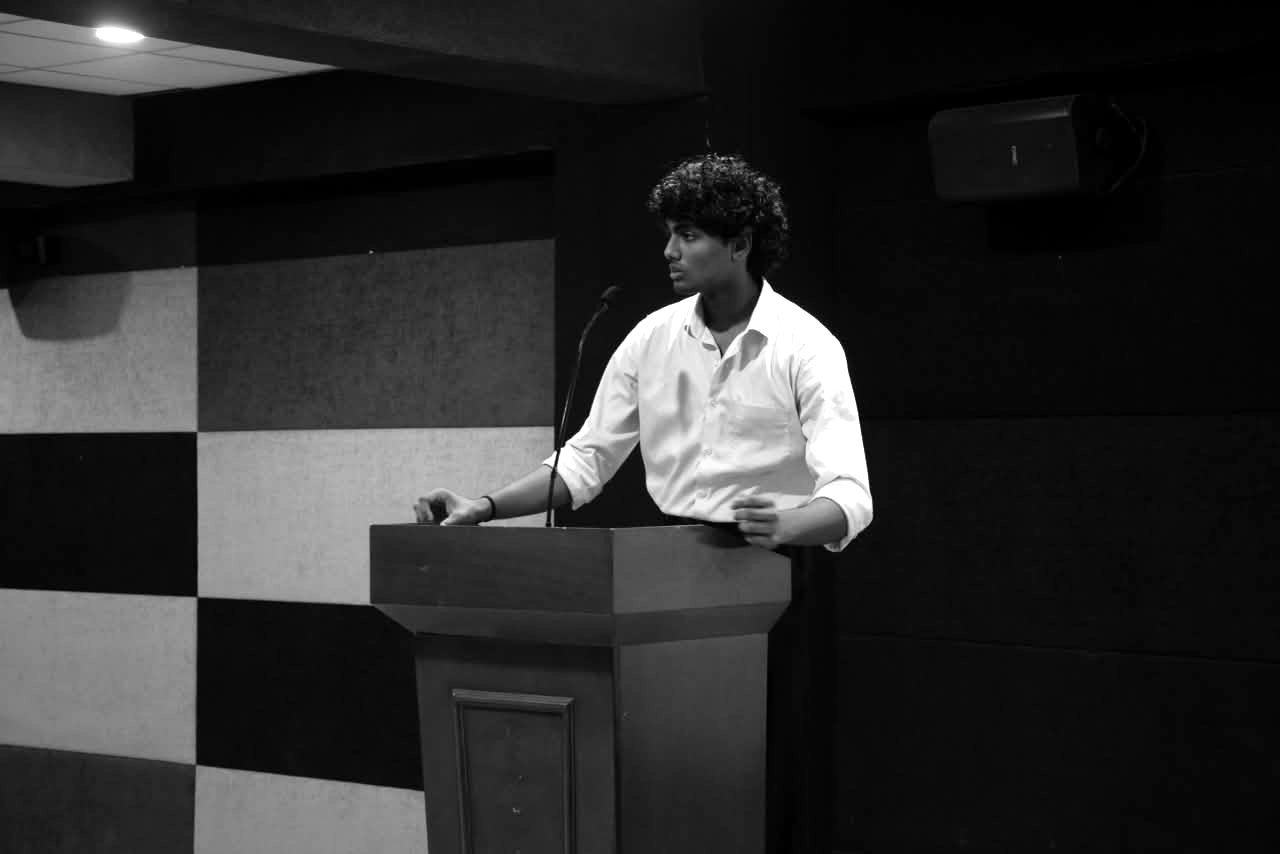
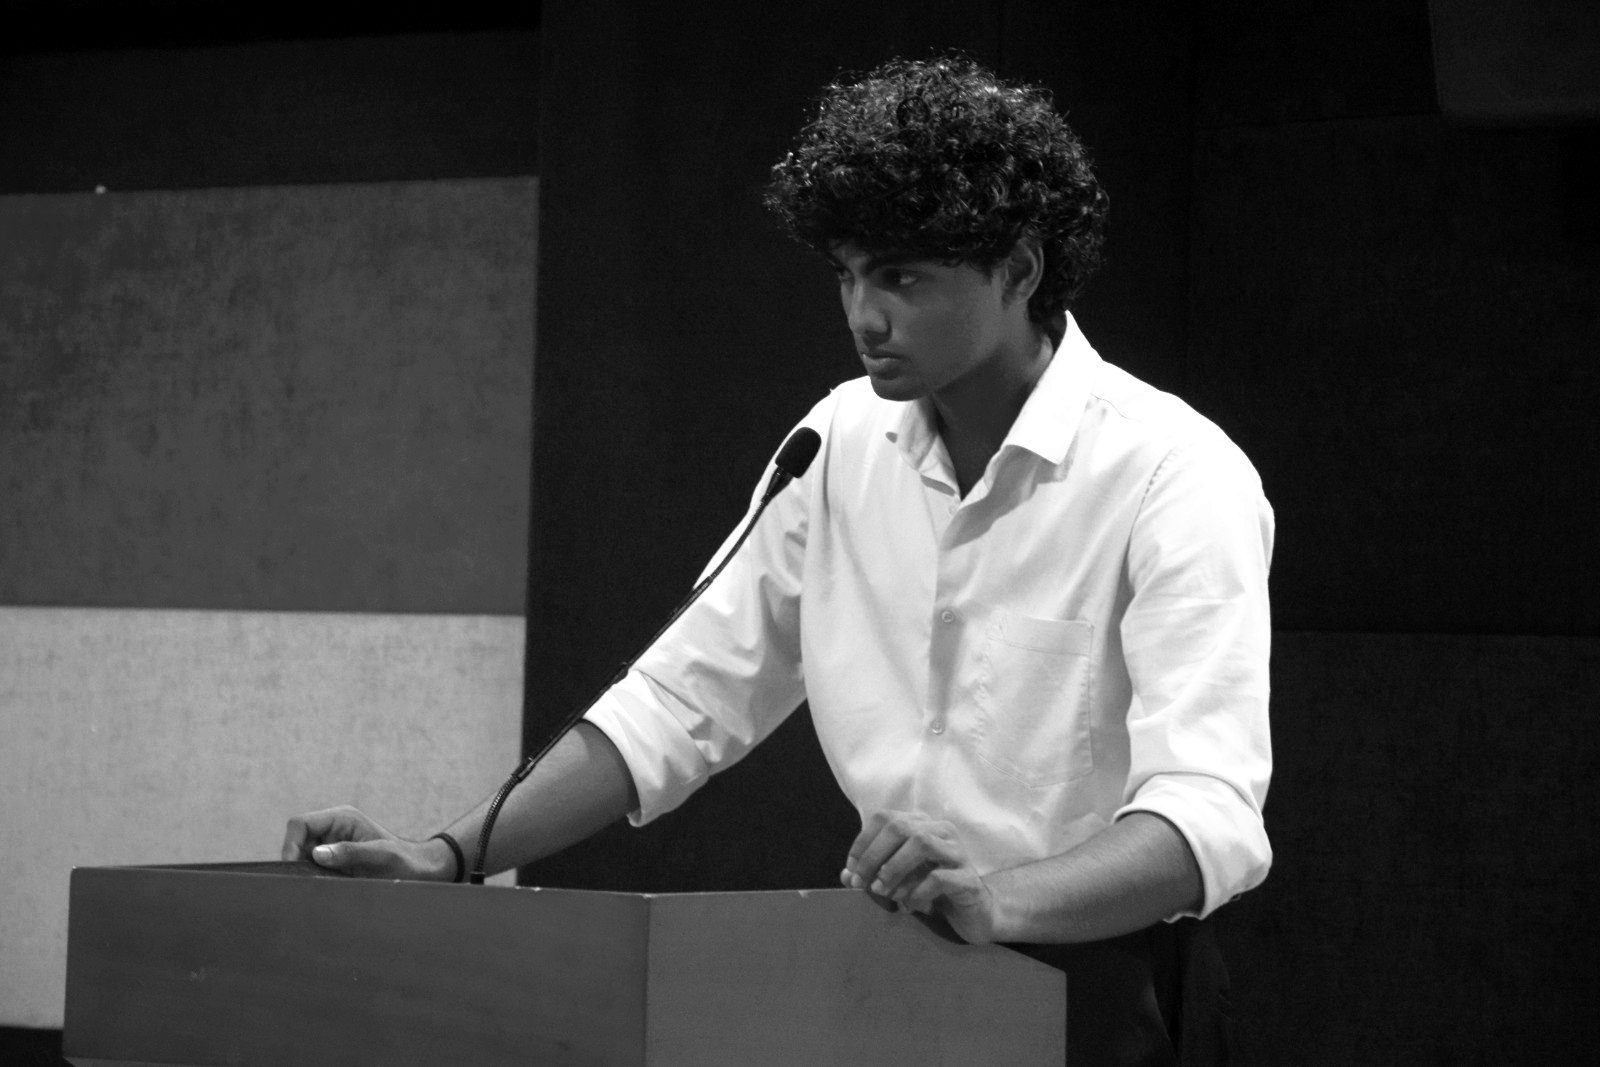
Add interactive shell, cinematic band, new photos
- Interactive terminal ("shell") visitors can type into: help,
  whoami, ls, open <project>, skills, contact, neofetch, clear —
  with command history (up/down) and tab-completion. Works with
  or without GSAP/reduced-motion.
- New photos: hero + loader from photo one, a full-bleed cinematic
  stage band (parallax) from photo two — less repetition.
- Terminal + typewriter now run on every code path.

diff --git a/js/main.js b/js/main.js
@@ -25,10 +25,13 @@
     if (loader) loader.parentNode.removeChild(loader);
     initLenis(); // harmless if it bails
     initCursor();
+    initShell();
+    initTerminalType();
     return;
   }
 
   G.registerPlugin(ST);
+  initShell();
 
   /* ================= LENIS smooth scroll ================= */
   var lenis = null;
@@ -127,7 +130,8 @@
   initCursor();
 
   /* ================= code terminal typewriter ================= */
-  (function typeTerminal() {
+  initTerminalType();
+  function initTerminalType() {
     var code = document.getElementById("termCode");
     if (!code) return;
     // tokens: [text, class] — class c=comment, k=keyword, s=string, ""=plain
@@ -164,7 +168,111 @@
       ST.create({ trigger: ".term", start: "top 80%", once: true,
         onEnter: function () { if (!run.started) { run.started = true; step(); } } });
     } else { step(); }
-  })();
+  }
+
+  /* band parallax */
+  G.to(".band__fig img", { yPercent: -12, ease: "none",
+    scrollTrigger: { trigger: ".band", start: "top bottom", end: "bottom top", scrub: true } });
 
   addEventListener("load", function () { if (ST) ST.refresh(); });
+
+  /* ================= interactive shell ================= */
+  function initShell() {
+    var screen = document.getElementById("cliScreen");
+    var form = document.getElementById("cliForm");
+    var input = document.getElementById("cliInput");
+    var cli = document.getElementById("cli");
+    if (!screen || !form || !input) return;
+    var hist = [], hi = -1;
+
+    function esc(s) { return String(s).replace(/[&<>]/g, function (c) { return { "&": "&amp;", "<": "&lt;", ">": "&gt;" }[c]; }); }
+    function pad(s, n) { s = String(s); return s.length >= n ? s : s + new Array(n - s.length + 1).join(" "); }
+    function out(html, cls) { var d = document.createElement("pre"); d.className = "row" + (cls ? " " + cls : ""); d.innerHTML = html; screen.appendChild(d); screen.scrollTop = screen.scrollHeight; }
+    function prompt(cmd) { out('<span class="mut">visitor@srd:~$</span> <span class="cmd">' + esc(cmd) + "</span>"); }
+
+    var projects = {
+      rawrs: ["RAWRS", "vision-language document accessibility · daily at WinVinaya", "https://github.com/winvinayainfosystemsindia/RAWRS---V1"],
+      thadam: ["Thadam", "audit intelligence over 476,781 lifecycle events", "https://github.com/SomeNobody21112/Thadam"],
+      ichnova: ["ICHNOVA", "blind radio-signal decoder, 30/30 held-out", "https://github.com/SomeNobody21112/ICHNOVA"],
+      llama: ["llama.cpp #30630", "merged NumPy Q1_0/Q2_0 GGUF quantization", "https://github.com/ggml-org/llama.cpp/pull/30630"]
+    };
+    function go(url) { try { window.open(url, "_blank", "noopener"); } catch (e) {} }
+
+    function neofetch() {
+      var art = ["   ____  ____  ____", "  / ___||  _ \\|  _ \\", "  \\___ \\| |_) | | | |", "   ___) |  _ <| |_| |", "  |____/|_| \\_\\____/"];
+      var info = ["visitor@srd", "-----------", "host: St. Joseph's Inst. of Tech", "role: AI / ML Engineer", "shell: zsh", "editor: VS Code · nvim", "stack: Python · TS · FastAPI · React", "merged: llama.cpp #30630", "uptime: 2nd year — shipping daily"];
+      var n = Math.max(art.length, info.length), rows = [];
+      for (var i = 0; i < n; i++) rows.push('<span class="asc">' + esc(pad(art[i] || "", 24)) + '</span><span class="mut">' + esc(info[i] || "") + "</span>");
+      return rows.join("\n");
+    }
+
+    var commands = {
+      help: function () {
+        return ['<span class="hd">commands</span>',
+          '  <span class="cmd">whoami</span>     who I am',
+          '  <span class="cmd">about</span>      the longer version',
+          '  <span class="cmd">ls</span>         list projects',
+          '  <span class="cmd">open</span> &lt;x&gt;   open one (rawrs · thadam · ichnova · llama)',
+          '  <span class="cmd">skills</span>     the toolkit',
+          '  <span class="cmd">contact</span>    where to find me',
+          '  <span class="cmd">neofetch</span>   system info',
+          '  <span class="cmd">clear</span>      clear the screen'].join("\n");
+      },
+      whoami: function () { return "sri ramaanuja dasan — 2nd-yr CSE, Chennai. builds &amp; ships AI end to end."; },
+      about: function () { return "I build AI that reaches real users — a tool used daily at WinVinaya, a hackathon-grade audit engine, a signal decoder from first principles. I measure against benchmarks and keep systems reviewable and reversible. Long game: found my own company."; },
+      ls: function () { return Object.keys(projects).map(function (k) { var p = projects[k]; return '<span class="cmd">' + pad(k, 10) + '</span><span class="mut">' + esc(p[1]) + "</span>"; }).join("\n"); },
+      open: function (a) {
+        if (!a) return "usage: open &lt;rawrs|thadam|ichnova|llama&gt;";
+        var p = projects[a.toLowerCase()];
+        if (!p) return "not found: " + esc(a) + " — try: " + Object.keys(projects).join(", ");
+        go(p[2]); return 'opening <a href="' + p[2] + '" target="_blank" rel="noopener">' + esc(p[0]) + "</a> …";
+      },
+      skills: function () {
+        return ['<span class="mut">ml   </span> Qwen2.5-VL · embeddings · anomaly/survival · GGUF quant',
+          '<span class="mut">lang </span> Python · TypeScript · React · FastAPI',
+          '<span class="mut">ops  </span> Docker · CI · pytest · git'].join("\n");
+      },
+      contact: function () {
+        return ['github   <a href="https://github.com/SomeNobody21112" target="_blank" rel="noopener">@SomeNobody21112</a>',
+          'linkedin <a href="https://linkedin.com/in/sri-ramaanuja-dasan" target="_blank" rel="noopener">in/sri-ramaanuja-dasan</a>',
+          'site     <a href="https://somenobody21112.github.io" target="_blank" rel="noopener">somenobody21112.github.io</a>'].join("\n");
+      },
+      github: function () { go("https://github.com/SomeNobody21112"); return "opening GitHub …"; },
+      linkedin: function () { go("https://linkedin.com/in/sri-ramaanuja-dasan"); return "opening LinkedIn …"; },
+      neofetch: function () { return neofetch(); },
+      echo: function (a) { return esc(a || ""); },
+      date: function () { return esc(new Date().toString()); },
+      sudo: function () { return "nice try. this incident will be reported. 🙂"; },
+      history: function () { return hist.length ? hist.map(function (h, i) { return "  " + (i + 1) + "  " + esc(h); }).join("\n") : "(empty)"; },
+      clear: function () { screen.innerHTML = ""; return null; }
+    };
+    commands.projects = commands.ls;
+    commands.man = commands.help;
+
+    function run(line) {
+      prompt(line);
+      var parts = line.trim().split(/\s+/);
+      var name = (parts.shift() || "").toLowerCase();
+      if (!name) return;
+      hist.push(line); hi = hist.length;
+      var fn = commands[name];
+      if (!fn) { out('command not found: ' + esc(name) + ' — type <span class="cmd">help</span>'); return; }
+      var r = fn(parts.join(" "));
+      if (r != null) out(r);
+    }
+
+    form.addEventListener("submit", function (e) { e.preventDefault(); var v = input.value; input.value = ""; run(v); });
+    input.addEventListener("keydown", function (e) {
+      if (e.key === "ArrowUp") { e.preventDefault(); if (hi > 0) { hi--; input.value = hist[hi] || ""; } }
+      else if (e.key === "ArrowDown") { e.preventDefault(); if (hi < hist.length - 1) { hi++; input.value = hist[hi] || ""; } else { hi = hist.length; input.value = ""; } }
+      else if (e.key === "Tab") {
+        e.preventDefault();
+        var pre = input.value.trim().toLowerCase();
+        if (pre) { var m = Object.keys(commands).filter(function (k) { return k.indexOf(pre) === 0; }); if (m.length === 1) input.value = m[0] + " "; }
+      }
+    });
+    if (cli) cli.addEventListener("click", function (e) { if (e.target.tagName !== "A") input.focus(); });
+
+    out('<span class="mut"># srd.sh — interactive shell. type </span><span class="cmd">help</span><span class="mut"> to begin.</span>');
+  }
 })();

diff --git a/css/styles.css b/css/styles.css
@@ -251,5 +251,32 @@ html.js .hero__fig img{ clip-path:inset(0 0 100% 0); }
 .cap__p{ color:var(--muted); font-size:14px; max-width:42ch; }
 @media (max-width:680px){ .caps__grid{ grid-template-columns:1fr; } }
 
+/* ---------- interactive shell ---------- */
+.shell{ padding-block:clamp(70px,10vw,130px); border-top:1px solid var(--line); }
+.cli{ border:1px solid var(--line); background:#0c0c0c; border-radius:11px; overflow:hidden; font-family:var(--mono); box-shadow:0 40px 120px -60px #000; }
+.cli__bar{ display:flex; align-items:center; gap:7px; padding:13px 15px; background:#111110; border-bottom:1px solid var(--line); }
+.cli__bar i{ width:11px; height:11px; border-radius:50%; background:#2d2c2a; }
+.cli__bar em{ margin-left:12px; font-style:normal; font-size:11.5px; letter-spacing:.08em; color:#5c5a56; }
+.cli__screen{ padding:20px 18px 6px; height:clamp(320px,46vh,460px); overflow-y:auto; font-size:13px; line-height:1.75; color:var(--dim); scrollbar-width:thin; }
+.cli__screen .cmd{ color:#ece9e3; } .cli__screen .mut{ color:#5c5a56; } .cli__screen .ok{ color:#ece9e3; }
+.cli__screen .hd{ color:#ece9e3; font-size:13px; }
+.cli__screen a{ color:#ece9e3; text-decoration:underline; text-underline-offset:3px; }
+.cli__screen pre{ margin:0; font:inherit; white-space:pre-wrap; }
+.cli__screen .row{ margin:2px 0; }
+.cli__screen .asc{ color:#8f8b84; line-height:1.15; }
+.cli__form{ display:flex; align-items:center; gap:10px; padding:10px 18px 18px; border-top:1px solid rgba(255,255,255,.04); }
+.cli__prompt{ color:#8f8b84; font-size:13px; white-space:nowrap; }
+.cli__prompt b{ color:#5c5a56; font-weight:400; padding:0 2px; }
+.cli__input{ flex:1; min-width:0; background:transparent; border:0; outline:0; color:#ece9e3; font:inherit; caret-color:#ece9e3; }
+.cli__hint{ margin-top:16px; font-family:var(--mono); font-size:11.5px; letter-spacing:.04em; color:var(--muted); }
+.cli__hint code{ color:var(--dim); background:var(--surface); border:1px solid var(--line); border-radius:5px; padding:1px 6px; }
+
+/* ---------- cinematic band ---------- */
+.band{ overflow:hidden; border-top:1px solid var(--line); }
+.band__fig{ position:relative; margin:0; height:clamp(320px,64vh,640px); overflow:hidden; filter:grayscale(1) contrast(1.04); }
+.band__fig img{ width:100%; height:120%; object-fit:cover; object-position:50% 28%; }
+.band__fig figcaption{ position:absolute; left:max(22px,env(safe-area-inset-left,0px)); bottom:22px; font-family:var(--mono); font-size:11px; letter-spacing:.16em; text-transform:uppercase; color:var(--fg); mix-blend-mode:difference; }
+
 /* ---------- focus a11y ---------- */
 a:focus-visible{ outline:2px solid var(--fg); outline-offset:4px; }
+.cli__input:focus-visible{ outline:0; }

diff --git a/index.html b/index.html
@@ -131,6 +131,25 @@
     </div>
   </section>
 
+  <!-- ░░ INTERACTIVE SHELL ░░ -->
+  <section class="shell" id="shell">
+    <div class="wrap">
+      <header class="sec-head">
+        <p class="sec-head__idx">— Playground</p>
+        <h2 class="sec-head__title">Poke around in<br>my <em>shell.</em></h2>
+      </header>
+      <div class="cli" id="cli" data-reveal>
+        <div class="cli__bar"><i></i><i></i><i></i><em>visitor@srd — zsh</em></div>
+        <div class="cli__screen" id="cliScreen" role="log" aria-live="polite" aria-label="Terminal output"></div>
+        <form class="cli__form" id="cliForm" autocomplete="off">
+          <label class="cli__prompt" for="cliInput">visitor@srd<b>:</b>~<b>$</b></label>
+          <input class="cli__input" id="cliInput" type="text" spellcheck="false" autocapitalize="off" aria-label="Type a command" />
+        </form>
+      </div>
+      <p class="cli__hint">try <code>help</code>, <code>ls</code>, <code>open rawrs</code>, <code>neofetch</code> &nbsp;·&nbsp; ↑/↓ history · Tab completes</p>
+    </div>
+  </section>
+
   <!-- ░░ ABOUT ░░ -->
   <section class="about" id="about">
     <div class="wrap about__grid">
@@ -182,6 +201,14 @@
         </article>
       </div>
     </div>
+  </section>
+
+  <!-- ░░ CINEMATIC BAND ░░ -->
+  <section class="band">
+    <figure class="band__fig">
+      <img src="assets/stage.jpg" alt="Sri Ramaanuja Dasan presenting on stage" />
+      <figcaption>Shipping in public — 2026</figcaption>
+    </figure>
   </section>
 
   <!-- ░░ OPEN SOURCE ░░ -->
